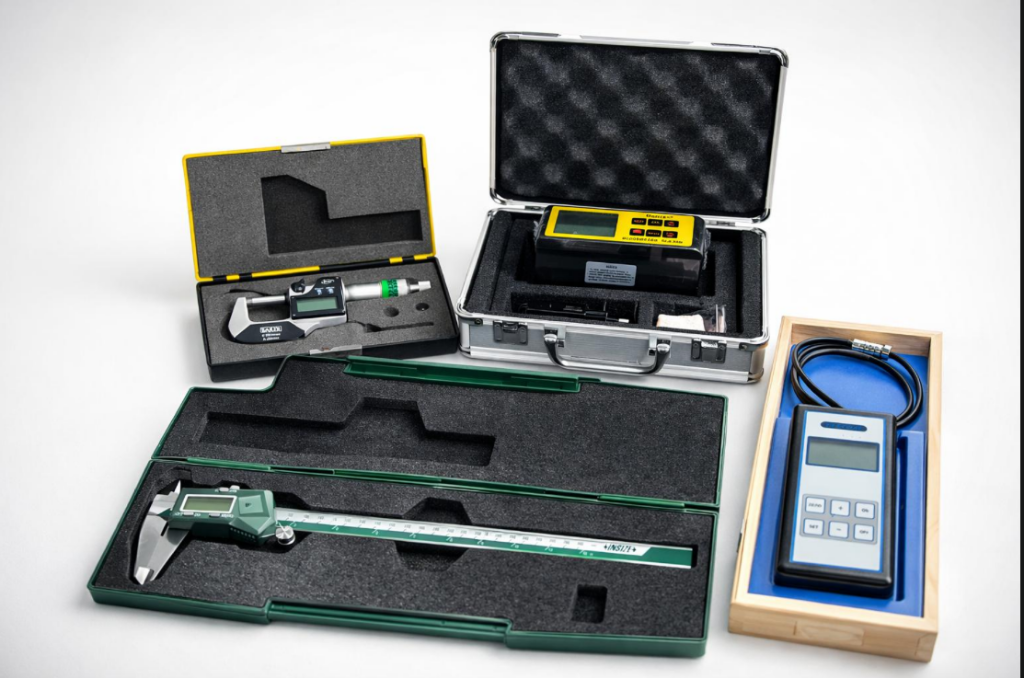
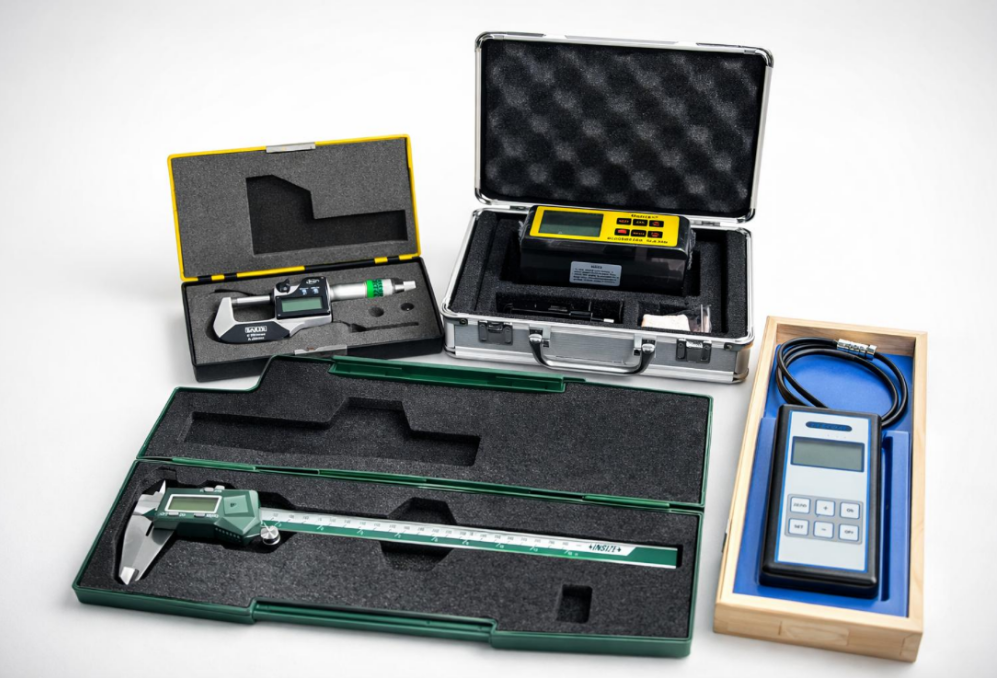
Refine Lab UI: Align user-edited images with contain fit and white background

diff --git a/src/pages/OurLab.jsx b/src/pages/OurLab.jsx
@@ -38,11 +38,13 @@ export const OurLab = () => {
                         onMouseEnter={(e) => { e.currentTarget.style.transform = 'scale(1.02)'; e.currentTarget.style.background = 'rgba(255, 255, 255, 0.08)'; }}
                         onMouseLeave={(e) => { e.currentTarget.style.transform = 'scale(1)'; e.currentTarget.style.background = 'rgba(255, 255, 255, 0.03)'; }}
                     >
-                        <img
-                            src="/images/lab_chemical.jpg"
-                            alt="Chemical Testing & Analysis Laboratory"
-                            style={{ width: '100%', aspectRatio: '16/10', objectFit: 'cover' }}
-                        />
+                        <div style={{ width: '100%', height: '300px', background: 'white', display: 'flex', alignItems: 'center', justifyContent: 'center' }}>
+                            <img
+                                src="/images/lab_chemical.jpg"
+                                alt="Chemical Testing & Analysis Laboratory"
+                                style={{ width: '100%', height: '100%', objectFit: 'contain' }}
+                            />
+                        </div>
                         <div style={{ padding: '2rem' }}>
                             <h3 style={{ fontSize: '1.5rem', marginBottom: '1rem', color: 'var(--color-primary)' }}>Chemical Testing & Analysis Laboratory</h3>
                             <p style={{ color: 'var(--color-text-muted)' }}>Spectroscopic analysis to verify raw material composition and integrity before manufacturing begins.</p>
@@ -56,11 +58,13 @@ export const OurLab = () => {
                         onMouseEnter={(e) => { e.currentTarget.style.transform = 'scale(1.02)'; e.currentTarget.style.background = 'rgba(255, 255, 255, 0.08)'; }}
                         onMouseLeave={(e) => { e.currentTarget.style.transform = 'scale(1)'; e.currentTarget.style.background = 'rgba(255, 255, 255, 0.03)'; }}
                     >
-                        <img
-                            src="/images/lab_saltspray.jpg"
-                            alt="Salt Spray & Corrosion Testing Facility"
-                            style={{ width: '100%', aspectRatio: '16/10', objectFit: 'cover' }}
-                        />
+                        <div style={{ width: '100%', height: '300px', background: 'white', display: 'flex', alignItems: 'center', justifyContent: 'center' }}>
+                            <img
+                                src="/images/lab_saltspray.jpg"
+                                alt="Salt Spray & Corrosion Testing Facility"
+                                style={{ width: '100%', height: '100%', objectFit: 'contain' }}
+                            />
+                        </div>
                         <div style={{ padding: '2rem' }}>
                             <h3 style={{ fontSize: '1.5rem', marginBottom: '1rem', color: 'var(--color-primary)' }}>Salt Spray & Corrosion Testing Facility</h3>
                             <p style={{ color: 'var(--color-text-muted)' }}>Accelerated corrosion testing to ensure our CED coating provides maximum durability in harsh environments.</p>
@@ -74,11 +78,13 @@ export const OurLab = () => {
                         onMouseEnter={(e) => { e.currentTarget.style.transform = 'scale(1.02)'; e.currentTarget.style.background = 'rgba(255, 255, 255, 0.08)'; }}
                         onMouseLeave={(e) => { e.currentTarget.style.transform = 'scale(1)'; e.currentTarget.style.background = 'rgba(255, 255, 255, 0.03)'; }}
                     >
-                        <img
-                            src="/images/lab_precision.png"
-                            alt="Precision Measurement & Inspection Instruments"
-                            style={{ width: '100%', aspectRatio: '16/10', objectFit: 'cover' }}
-                        />
+                        <div style={{ width: '100%', height: '300px', background: 'white', display: 'flex', alignItems: 'center', justifyContent: 'center' }}>
+                            <img
+                                src="/images/lab_precision.png"
+                                alt="Precision Measurement & Inspection Instruments"
+                                style={{ width: '100%', height: '100%', objectFit: 'contain' }}
+                            />
+                        </div>
                         <div style={{ padding: '2rem' }}>
                             <h3 style={{ fontSize: '1.5rem', marginBottom: '1rem', color: 'var(--color-primary)' }}>Precision Measurement & Inspection Instruments</h3>
                             <p style={{ color: 'var(--color-text-muted)' }}>Verifying the mechanical strength and elasticity of components to ensure robust performance.</p>
@@ -92,11 +98,13 @@ export const OurLab = () => {
                         onMouseEnter={(e) => { e.currentTarget.style.transform = 'scale(1.02)'; e.currentTarget.style.background = 'rgba(255, 255, 255, 0.08)'; }}
                         onMouseLeave={(e) => { e.currentTarget.style.transform = 'scale(1)'; e.currentTarget.style.background = 'rgba(255, 255, 255, 0.03)'; }}
                     >
-                        <img
-                            src="/images/lab_oven.jpg"
-                            alt="Hot Air Oven & Thermal Testing Area"
-                            style={{ width: '100%', aspectRatio: '16/10', objectFit: 'cover' }}
-                        />
+                        <div style={{ width: '100%', height: '300px', background: 'white', display: 'flex', alignItems: 'center', justifyContent: 'center' }}>
+                            <img
+                                src="/images/lab_oven.jpg"
+                                alt="Hot Air Oven & Thermal Testing Area"
+                                style={{ width: '100%', height: '100%', objectFit: 'contain' }}
+                            />
+                        </div>
                         <div style={{ padding: '2rem' }}>
                             <h3 style={{ fontSize: '1.5rem', marginBottom: '1rem', color: 'var(--color-primary)' }}>Hot Air Oven & Thermal Testing Area</h3>
                             <p style={{ color: 'var(--color-text-muted)' }}>State-of-the-art thermal testing facility to test components under extreme temperatures ensuring reliability.</p>
